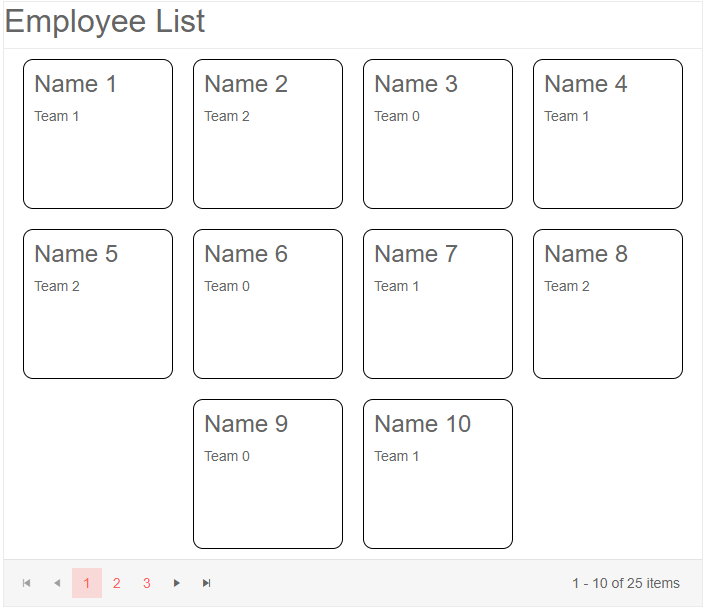
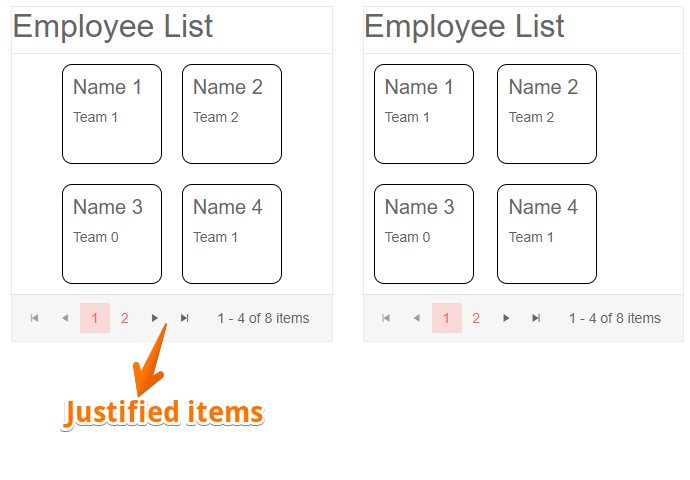
chore(kb): improvements to the justified items in listview KB

diff --git a/knowledge-base/listview-justify-items.md b/knowledge-base/listview-justify-items.md
@@ -36,15 +36,15 @@ To justify the items of the ListView to the center of the content area you can u
 @* Use the Class parameter and some CSS to justify the ListView items to the center of the content area. *@
 
 <style>
-    .my-listview .k-listview-content {
+    .my-listview .k-listview-content { /* justifies the items in the ListView */
         display: flex;
         flex-wrap: wrap;
         justify-content: center;
     }
 
     .listview-item { /*those styles are to create the layout of the listview item.*/
-        height: 150px;
-        width: 150px;
+        height: 100px;
+        width: 100px;
         display: inline-block;
         margin: 10px;
         border: 1px solid black;
@@ -53,20 +53,44 @@ To justify the items of the ListView to the center of the content area you can u
     }
 </style>
 
-<TelerikListView Data="@ListViewData" Width="700px" Pageable="true" Class="my-listview">
-    <HeaderTemplate>
-        <h2>Employee List</h2>
-    </HeaderTemplate>
-    <Template>
-        <div class="listview-item">
-            <h4>@context.Name</h4>
-            <div>@context.Team</div>
-        </div>
-    </Template>
-</TelerikListView>
+
+<div class="row">
+    <div class="col-6">
+        <TelerikListView Data="@ListViewData" 
+                         Pageable="true"
+                         PageSize="4"
+                         Class="my-listview">
+            <HeaderTemplate>
+                <h2>Employee List</h2>
+            </HeaderTemplate>
+            <Template>
+                <div class="listview-item">
+                    <h5>@context.Name</h5>
+                    <div>@context.Team</div>
+                </div>
+            </Template>
+        </TelerikListView>
+    </div>
+    <div class="col-6">
+        <TelerikListView Data="@ListViewData" 
+                         Pageable="true"
+                         PageSize="4">
+            <HeaderTemplate>
+                <h2>Employee List</h2>
+            </HeaderTemplate>
+            <Template>
+                <div class="listview-item">
+                    <h5>@context.Name</h5>
+                    <div>@context.Team</div>
+                </div>
+            </Template>
+        </TelerikListView>
+    </div>
+</div>
+
 
 @code{
-    List<SampleData> ListViewData { get; set; } = Enumerable.Range(1, 25).Select(x => new SampleData
+    List<SampleData> ListViewData { get; set; } = Enumerable.Range(1, 8).Select(x => new SampleData
     {
         Id = x,
         Name = $"Name {x}",
